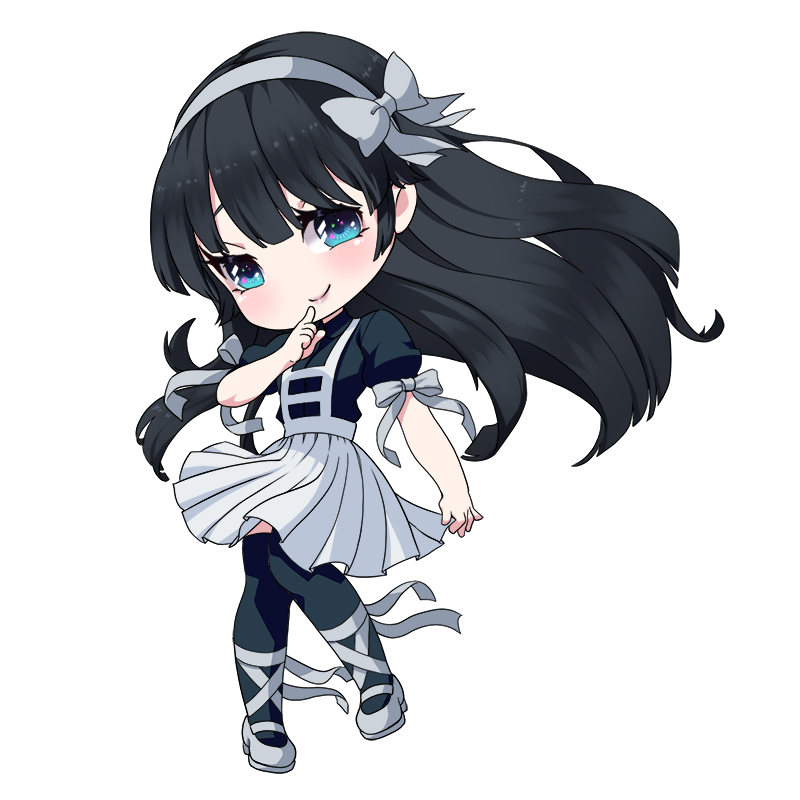
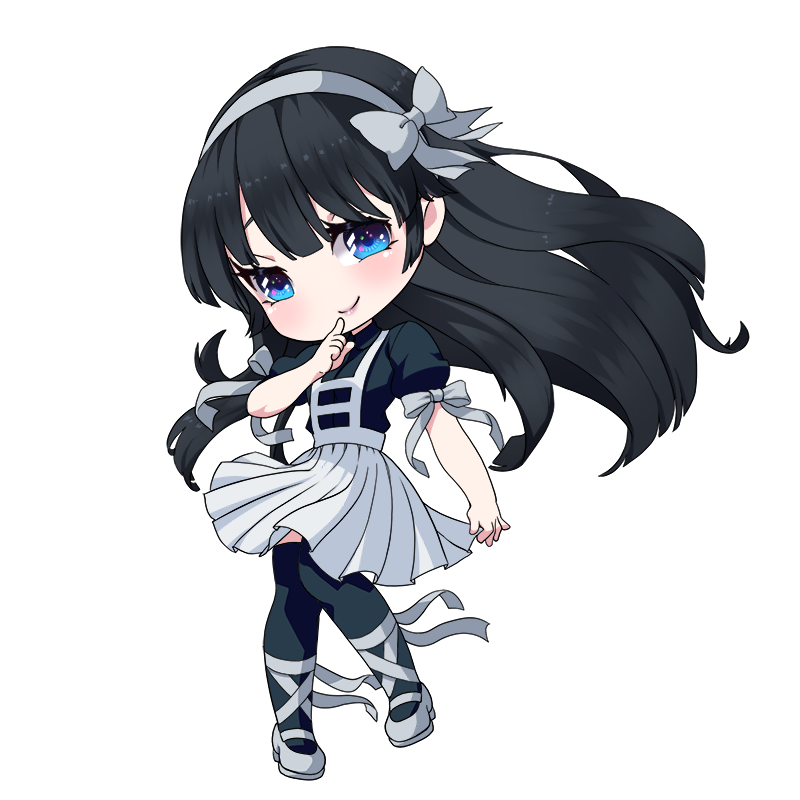
added thumbnails

Changed region(s): [[0.1562, 0.0312, 0.9375, 1.0]]

diff --git a/components/splide/SplideCarousel.js b/components/splide/SplideCarousel.js
@@ -153,19 +153,18 @@ const SplideCarousel = () => {
 		fixedHeight: 60,
 		breakpoints: {
 			576: {
-				fixedWidth: 60,
+				fixedWidth: 120,
 				fixedHeight: 60,
+				gap: '0rem',
 			},
 			898: {
-				fixedWidth: 80,
+				fixedWidth: 120,
 				fixedHeight: 60,
 			},
 		},
-		focus: 'center',
 		isNavigation: true,
 		updateOnMove: true,
 		arrows: false,
-		waitForTransition: false,
 	};
 
 	return (
@@ -186,11 +185,11 @@ const SplideCarousel = () => {
 					))}
 				</Splide>
 			</animated.div>
-			<div className="flex justify-center overflow-hidden">
-				<Splide options={secondaryOptions} ref={secondaryRef} className="bg-white">
+			<div className="flex justify-center overflow-hidden galleryBar">
+				<Splide options={secondaryOptions} ref={secondaryRef}>
 					{chars.map((charObj, index) => (
 						<SplideSlide key={index}>
-							<img src={`./splide/${charObj.name}.png`} alt={`${charObj.name} image`} />
+							<img src={`./splide/${charObj.name}_t.png`} alt={`${charObj.name} thumbnail`} />
 						</SplideSlide>
 					))}
 				</Splide>

diff --git a/styles/globals.css b/styles/globals.css
@@ -141,4 +141,14 @@ FiraSans
 	.ethemeralsBg {
 		background: #486677; /* fallback for old browsers */
 	}
+	.galleryBar {
+		background: #1a394b;
+	}
+	.galleryBarActive {
+		background: #0e1c24;
+	}
+	.splide--nav > .splide__track > .splide__list > .splide__slide.is-active {
+		background: #0e1c24;
+		border: none;
+	}
 }
